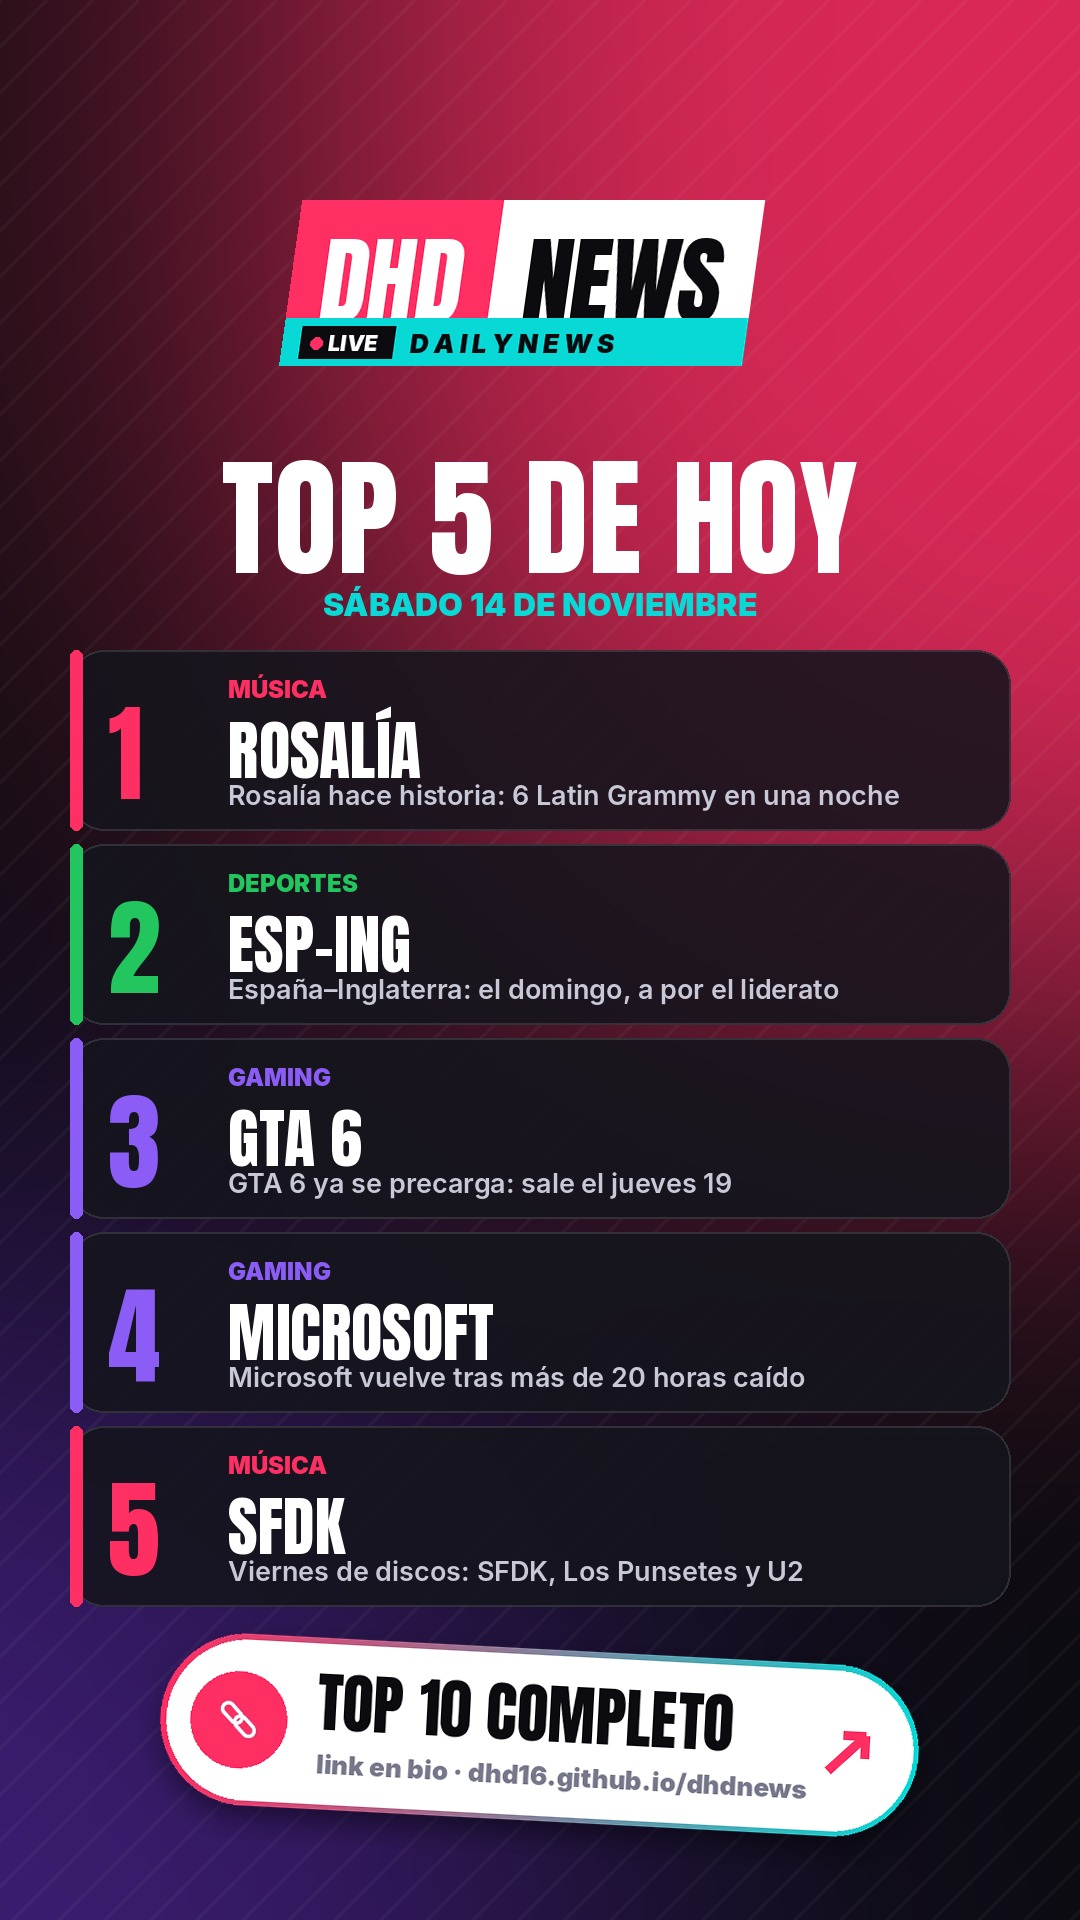
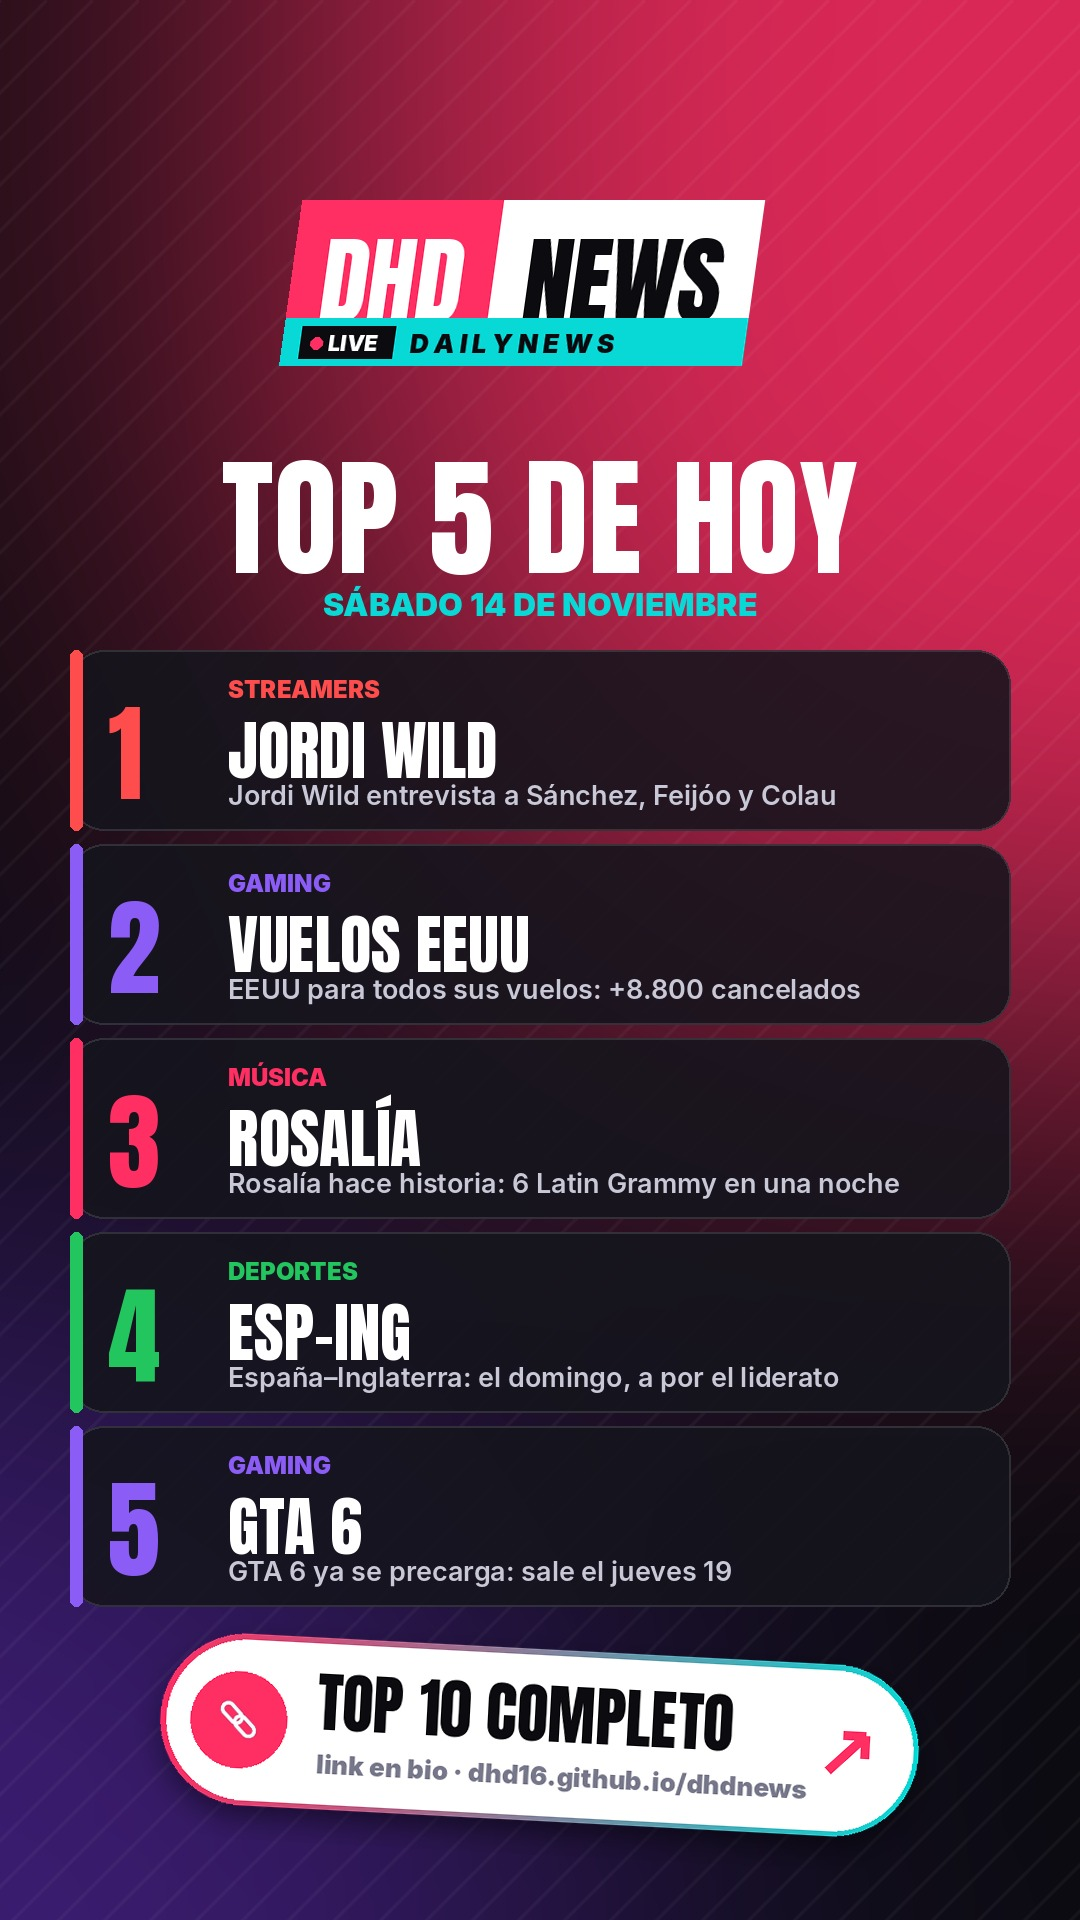
Jordi Wild y vuelos EEUU destacados 2026-11-14

diff --git a/contenido/2026-11-14.md b/contenido/2026-11-14.md
@@ -34,3 +34,9 @@ Desliza para el top 5 · Top 10 completo: link en bio
 - (31-40 s) "Viernes de discos: SFDK, Los Punsetes y U2. Y en los Streamer Awards, IShowSpeed hace triplete y Quackity recibe el Premio al Legado."
 - (40-50 s) "Además: Ana de Armas y Beto Montenegro debutan como pareja y Commandos: Origins llega a Switch 2 el 15 de diciembre."
 - (50-56 s) "¿Cuál te ha sorprendido más? Comenta el número. Top 10 completo, link en bio."
+
+## Actualización (petición de Diego)
+- Nº1 destacada: Jordi Wild entrevista a Sánchez, Feijóo y Colau (artículo propio: articulo.html?id=jordi-wild-candidatos).
+- Nº2: EEUU para todos sus vuelos: +8.800 cancelados (Euronews).
+- Stories extra en Instagram: story-ultima-1.png (Jordi Wild) y story-ultima-2.png (vuelos EEUU).
+- Nota: las imágenes de story-top5 y tiktok-* de esta carpeta se han regenerado con el nuevo orden; las publicadas a las 10:30-10:40 están en el commit anterior.
